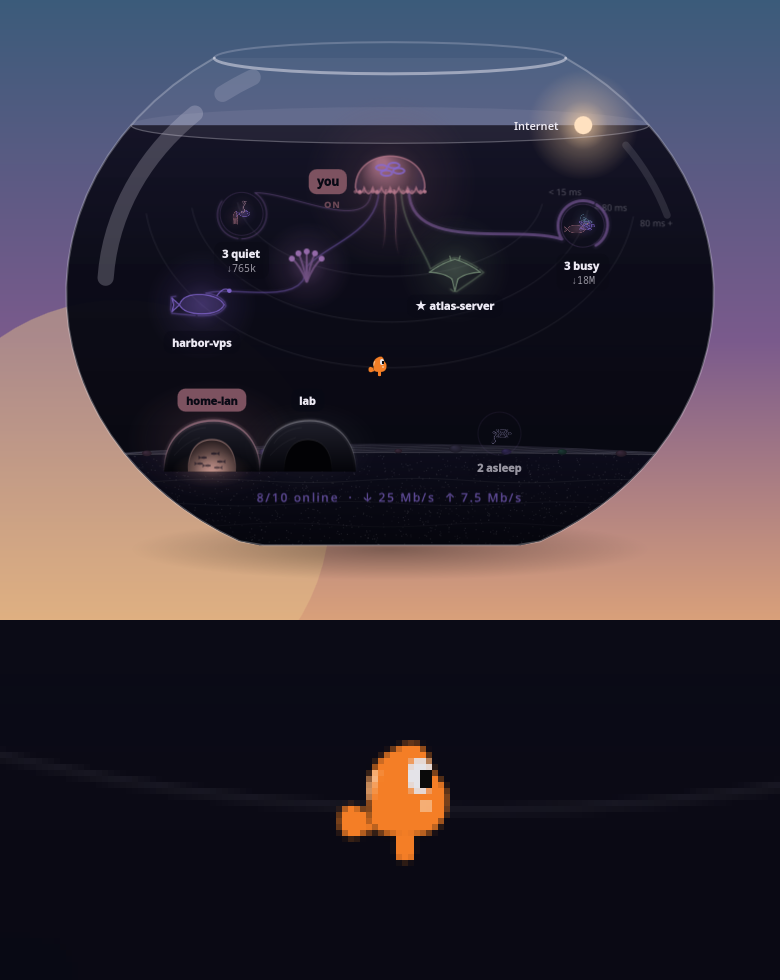
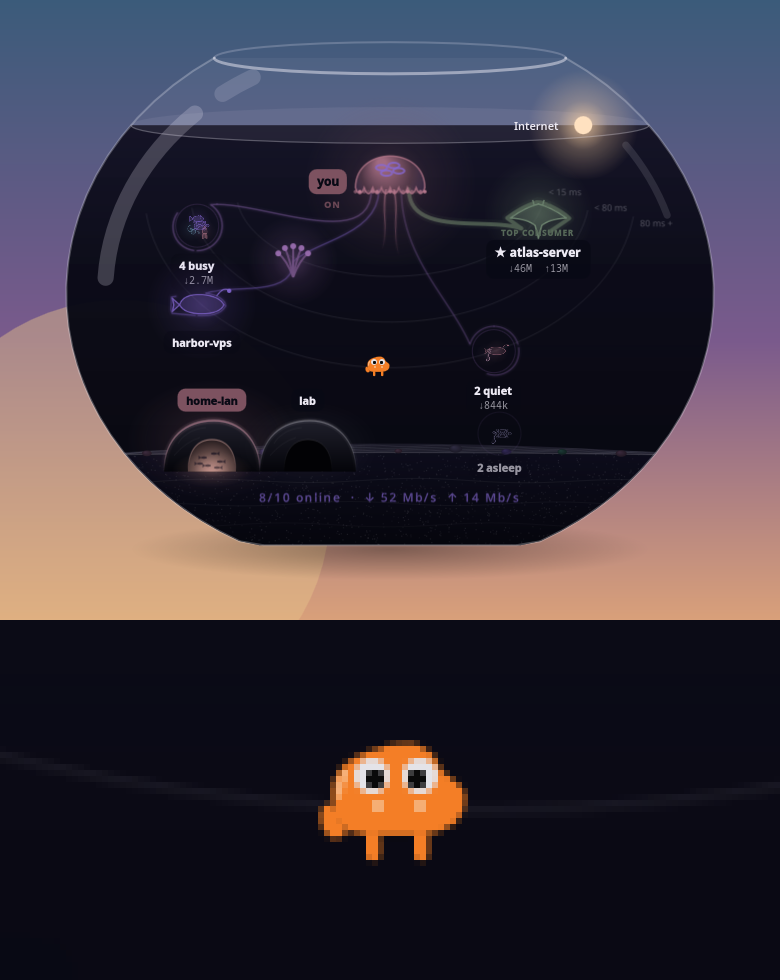
docs(design): Darwin front view only, scenes and board recipe, head bump crease measured (NAK-353)

diff --git a/docs/design/darwin/README.md b/docs/design/darwin/README.md
@@ -11,7 +11,7 @@ approved, and not used by the widget.
 | `darwin-front-25.svg`, `darwin-three-quarter-25.svg`, `darwin-profile-25.svg`, `darwin-swim-25.svg` | optical variants for the real widget size | 25 x 21, 22 x 21, 19 x 21 and 25 x 18, one unit = one pixel |
 | `*@1x.png` | the optical variants rendered 1:1 (25 px wide, `unit` 0.034 in `Goldfish.qml`) | |
 | `*@4x.png` | four times the real size: front and swimming 100 px wide, three-quarter 89, profile 76 (one scale, 100 / 745, for the three views of the front space) | |
-| `scene-dark.png`, `scene-light.png`, `scene-wallpaper.png` | the profile alone (the only view kept, owner 2026-10-10) at real size in the real desktop bowl (`scripts/preview/render.sh desk`, `desk-light`, and `desk` with a made-up warm wallpaper palette in the preview `Theme`), composited at +368+356, with a 6x unsmoothed zoom below | |
+| `scene-dark.png`, `scene-light.png`, `scene-wallpaper.png` | the front view alone (the only view kept, owner 2026-10-10, replacing "profile only") at real size in the real desktop bowl (`scripts/preview/render.sh desk`, `desk-light`, and `desk` with a made-up warm wallpaper palette in the preview `Theme`), composited at +365+356, with a 6x unsmoothed zoom below | |
 
 Rebuild:
 
@@ -23,7 +23,7 @@ for v in front:100 three-quarter:89 profile:76 swim:100; do
 done
 # scenes: <mode> is desk, desk-light, or desk with the wallpaper palette below
 ../../../scripts/preview/render.sh <mode> top.png
-magick top.png darwin-profile@1x.png -geometry +368+356 -composite top.png
+magick top.png darwin-front@1x.png -geometry +365+356 -composite top.png
 magick top.png \( top.png -crop 130x60+312+336 +repage -filter point -resize 600% \) \
   -append -strip scene-<name>.png
 ```
@@ -234,3 +234,50 @@ pupils, cheeks and both brows sit on the reference ink.
   1.00 to 1.19:1 (invisible, the body carries the shape).
 - Not done: the 0.6 depth ratio is an assumption (Q129); the side-on fin has
   no reference; the fin's top edge keeps a slight wave at full size.
+
+## Front view only (owner, 2026-10-10)
+
+The owner keeps Darwin from the front only; this replaces "profile only".
+The profile, three-quarter and swimming files stay as they were and are no
+longer worked on; the profile sections above describe the previous scenes.
+The front drawing is unchanged since the smoothing.
+
+Contrast of the front view in the three scenes, on the 7275 backdrop pixels of
+the 130 x 60 zone at +312+336 (Darwin's 25 x 21 box excluded), worst to best:
+
+| Scene | Body `#F47E26` | Eye white `#E4E3E8` | Outline `#0A0A0A` |
+|---|---|---|---|
+| dark | 6.25 to 7.18:1 | 13.09 to 15.03:1 | 1.03 to 1.19:1 |
+| light | 6.63 to 7.44:1 | 13.89 to 15.57:1 | 1.00 to 1.12:1 |
+| wallpaper | 6.23 to 7.19:1 | 13.04 to 15.05:1 | 1.03 to 1.19:1 |
+
+The outline is invisible on the deep; the body and the eyes carry the shape.
+Inside each scene, at most 1 opaque pixel of `darwin-front@1x.png` differs.
+
+Right brow: checked on ink masks (red channel under 125) of the reference and
+of ours, the brow itself sits on the reference ink. The offset seen next to it
+on the overlay is the body line: the reference has a crease where the head
+bump meets the body (about x 625, y 160 of the board), and the 12-harmonic
+smoothing rounds it, so our line runs inside the bump above the crease and
+outside it at the crease. Our ink is up to about 12 px from the nearest
+reference ink there (reference ink grown by a disk of radius 11 leaves 58 of
+our ink pixels uncovered, radius 13 leaves none). The 4.97 px quoted above is
+the gap at the 48 measured rays only; none of them falls in the crease. Not
+corrected: it is the trade between "smooth" and 1:1, and a redraw of the body
+line needs a new score.
+
+The front board (outside the repository, it holds the reference): reference,
+ours and 50 % overlay at one scale, and below them the 25 px front view of
+the three scenes at 6x, unsmoothed. Three 745 x 612 panels and three
+384 x 240 zooms on a 2283 x 888 canvas, 12 px margins (`ref.png`, `ours.png`
+and `mix.png` as in the side-by-side recipe above):
+
+```sh
+for n in dark light wallpaper; do
+  magick scene-$n.png -crop 64x40+345+347 +repage -filter point -resize 600% z-$n.png
+done
+magick -size 2283x888 xc:'#5c6670' ref.png -geometry +12+12 -composite \
+  ours.png -geometry +769+12 -composite mix.png -geometry +1526+12 -composite \
+  z-dark.png -geometry +192+636 -composite z-light.png -geometry +949+636 -composite \
+  z-wallpaper.png -geometry +1706+636 -composite -strip -depth 8 front-board.png
+```
